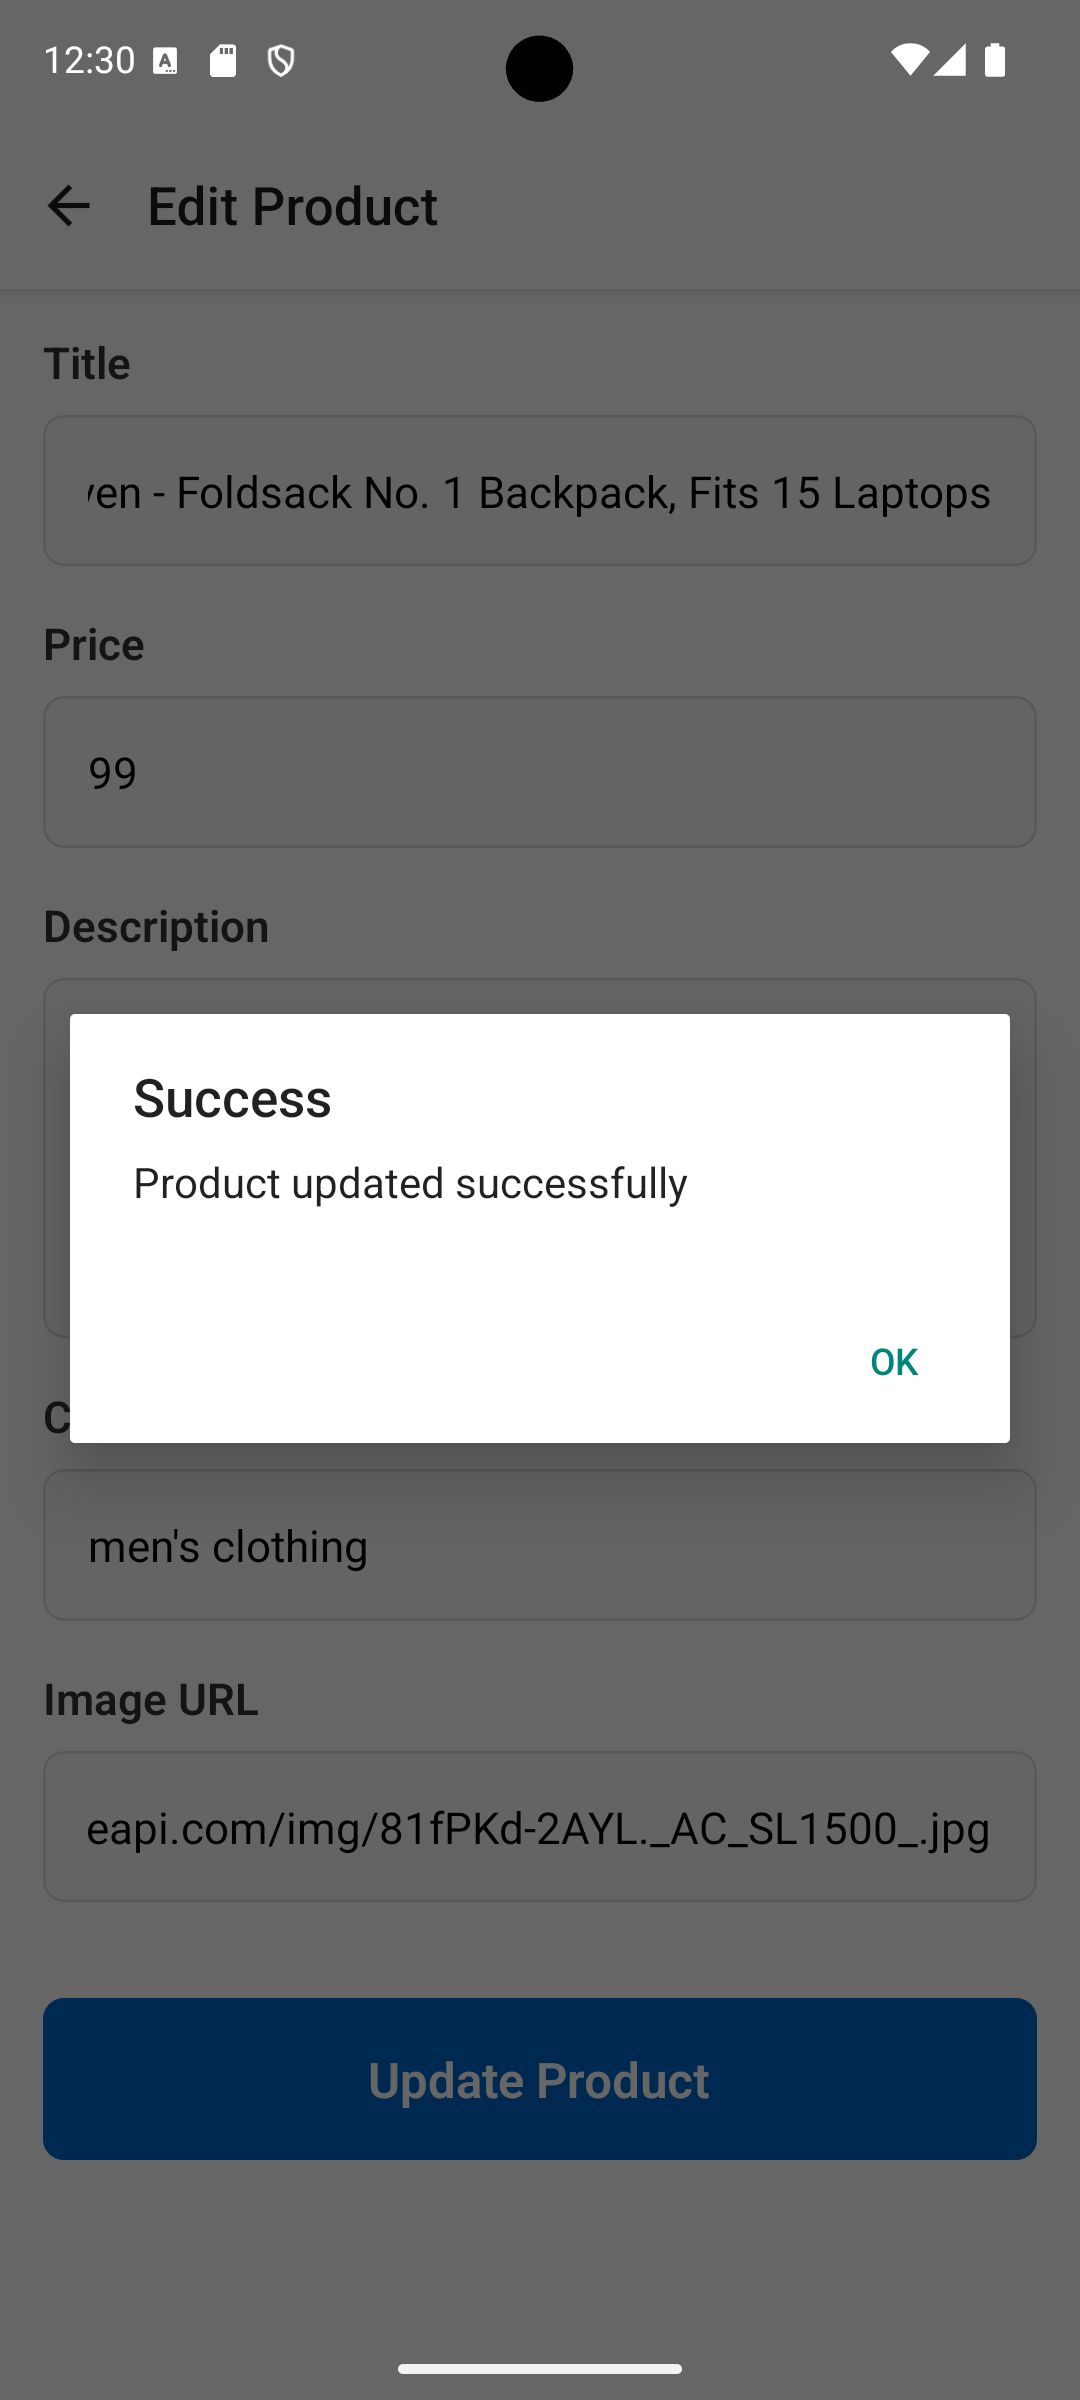
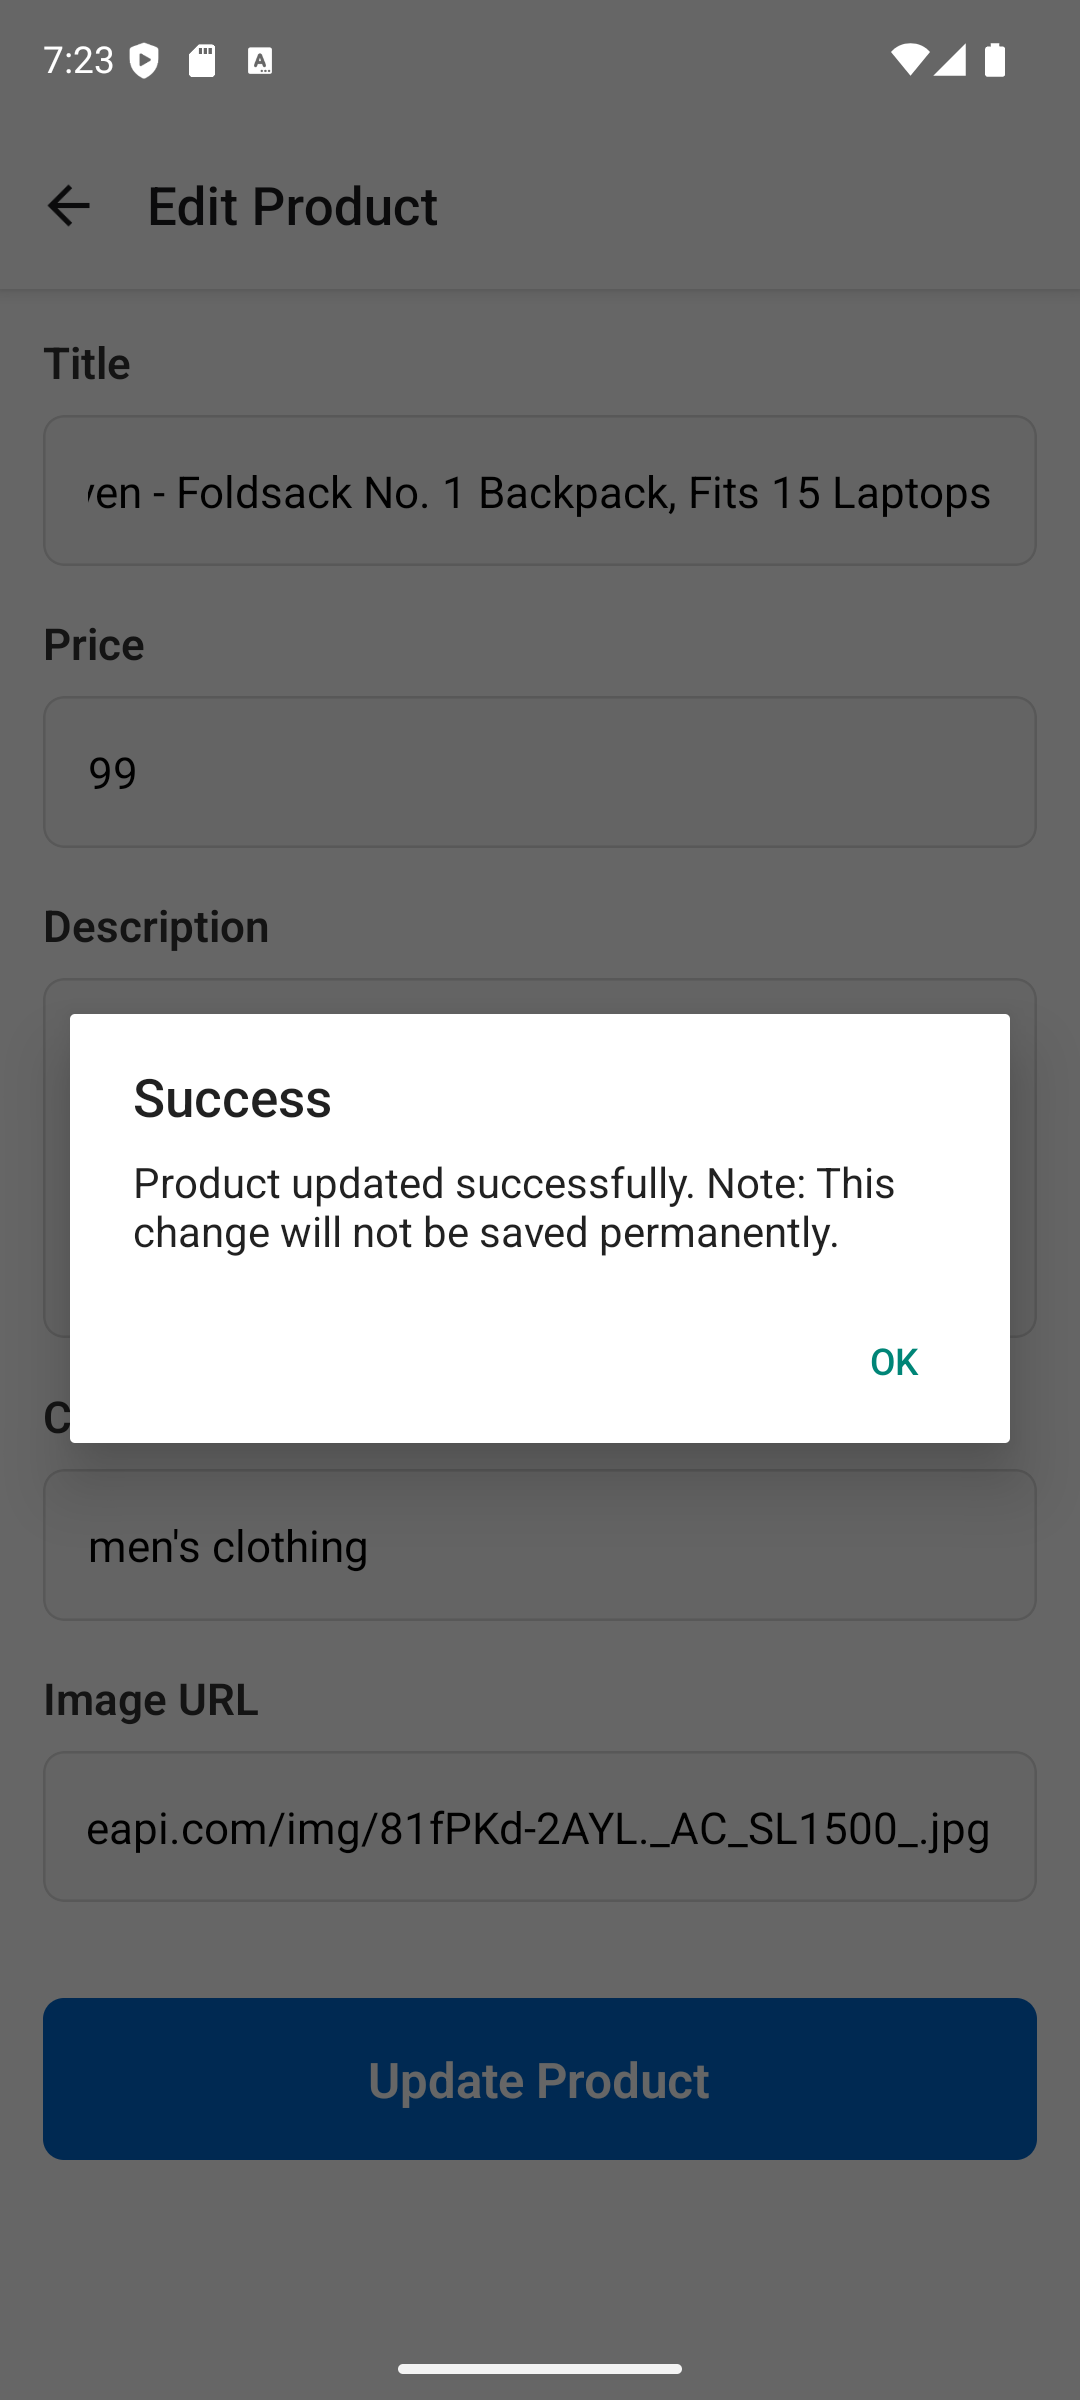
All Changes done

diff --git a/screens/ProductsScreen.js b/screens/ProductsScreen.js
@@ -43,7 +43,7 @@ const ProductsScreen = ({ navigation }) => {
       if (data) {
         // Remove product from state
         setProducts(products.filter(product => product.id !== id));
-        Alert.alert('Success', 'Product deleted successfully');
+        Alert.alert('Success', 'Product deleted successfully. Note: This change will not be saved permanently.');
       } else {
         Alert.alert('Error', 'Failed to delete product');
       }

diff --git a/screens/AddProductScreen.js b/screens/AddProductScreen.js
@@ -75,7 +75,7 @@ const AddProductScreen = ({ navigation }) => {
       if (data && data.id) {
         Alert.alert(
           'Success',
-          `Product added successfully with ID: ${data.id}`,
+          `Product added successfully with ID: ${data.id}. Note: This change will not be saved permanently.`,
           [{ text: 'OK', onPress: () => navigation.goBack() }]
         );
       } else {

diff --git a/screens/EditProductScreen.js b/screens/EditProductScreen.js
@@ -78,7 +78,7 @@ const EditProductScreen = ({ route, navigation }) => {
       if (data) {
         Alert.alert(
           'Success',
-          'Product updated successfully',
+          'Product updated successfully. Note: This change will not be saved permanently.',
           [{ text: 'OK', onPress: () => navigation.goBack() }]
         );
       } else {
